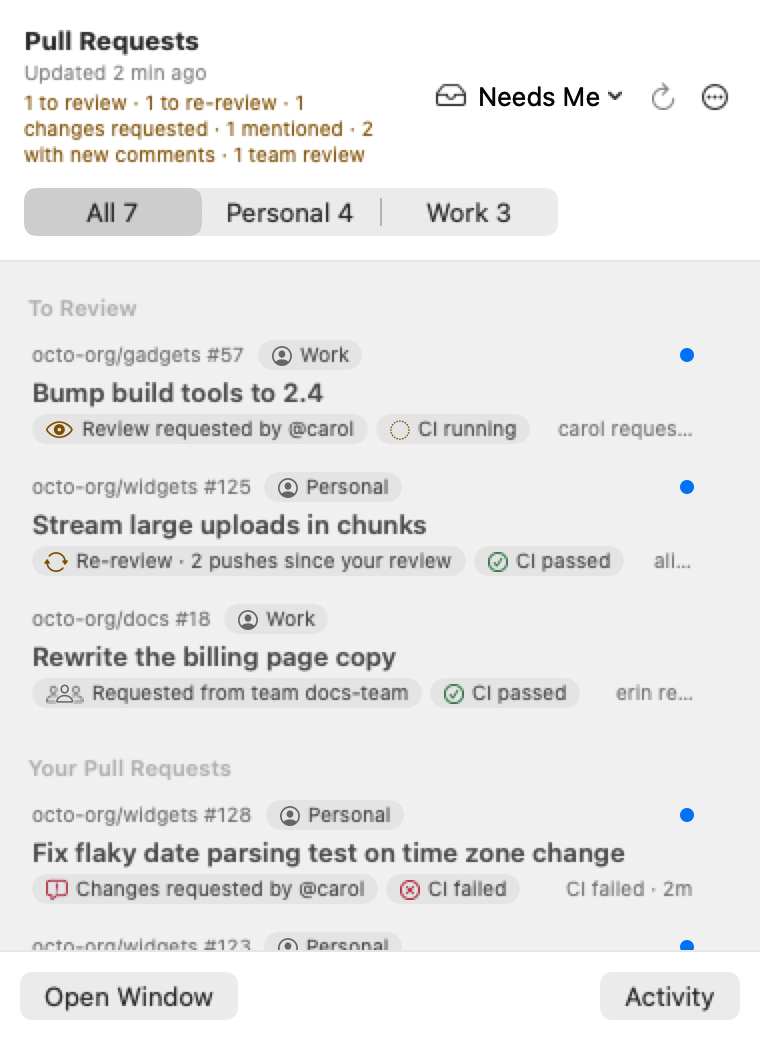
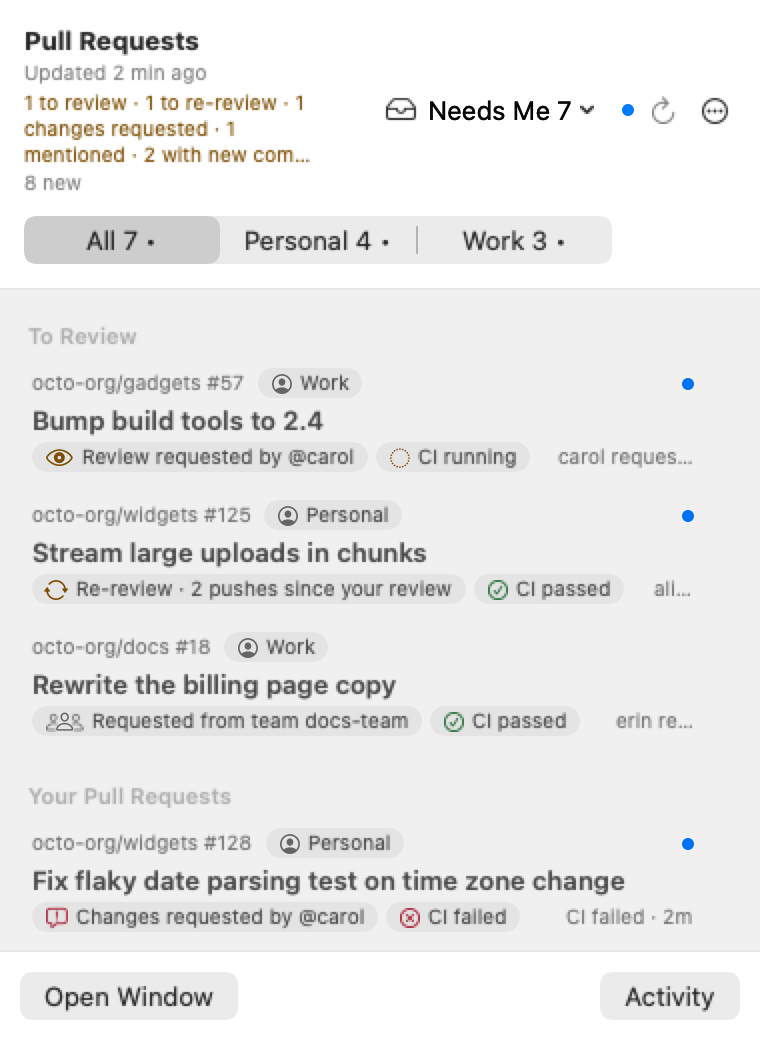
docs: numbers and dots in the changelog, README and screenshots

diff --git a/CHANGELOG.md b/CHANGELOG.md
@@ -24,6 +24,7 @@ Planned as 0.7.0.
 - Ghostex: a session PullPing starts there comes to the front. Resuming a session that is already open in Ghostex focuses it instead of starting a second copy, and types one line into its input (without pressing Return) that points at the prompt; `pullping session resume` does the same instead of refusing. An automatic run never types into an open session: it asks with a **Go to Session** button instead.
 
 ### Added
+- **Numbers and dots.** Every account segment, filter (also inside the panel's filter menu) and sidebar row shows how many items need you (the number) and a dot when something there happened that you have not opened yet: a comment, a review, CI, a merge or a new request, by someone else. The menu-bar icon's dot shows while anything is new (Settings → General → **Show a dot for new activity**, on by default); the panel header says how many ("2 new"); a collapsed account, Drafts, Waiting on Others or Reviewed shows a dot when it holds something new. A dot goes when you open the item, select it in the window or mark it read, not when you open the panel; muted, hidden and snoozed items light no group dot. Numbers inside the app now always count what needs you, also when the menu-bar count is All unread or Off.
 - **Background runs and drafts** (off by default: Settings → Automations → Background Runs, `pullping background on`). **Review in Background** and **Summarize** in each pull request's Handle with Agent menu, and rules with `--background review|summarize`, start Claude Code without a terminal (Codex: not yet, a run is refused; it still opens in a terminal). It only reads: PullPing fetches the diff and discussion first, and the agent gets read-only file tools (`--restricted --safe-mode --tools Read,Grep,Glob`, no MCP, no CLAUDE.md; needs Claude Code 2.1.248 or later). The run ends in a draft: **Review draft ready** with Review Draft…, Open Session and Discard. In the draft window you edit the review and choose Comment, Request changes or Approve (Comment is preselected when the diff was too large to send whole, and the window says how much the agent saw); **Post** sends that one review with the account's token, pinned to the reviewed commit. This is the first time PullPing writes to GitHub, and only on that click: approvals and change requests are never automatic, no setting or command posts, and the first post per account asks once. 2 runs at once, 20 a day, 10 minutes each. `pullping background run|list|cancel|status`, `pullping drafts list|show|discard`.
 - **Let your agent set it up.** Settings → Automations → **Copy Setup Prompt** (or `pullping setup prompt`): paste it into Claude Code or Codex and it walks you through every option, one question at a time, following the guide inside your copy of PullPing (`pullping setup guide`, also [docs/agent-setup.md](docs/agent-setup.md)). It never turns on automatic runs or the search through your agent history without your yes. `pullping setup status` shows what is set.
 - **Open With.** Settings → Automations → Open With (`pullping targets`): up to 5 places where agent sessions open (Terminal, iTerm2, Ghostty, Ghostex or your own command line); the first is the default. Notification buttons use it; a new chevron next to them, the pull request's **Handle with Agent ▸** menu, the detail toolbar and the **Pull Request** menu offer every place. In Ghostex, focusing a session that already runs there is a setting of the entry. Rules can pick one (`--target`).

diff --git a/README.md b/README.md
@@ -49,7 +49,8 @@ brew install --cask roypadina/tap/pullping
 - **Re-reviews you would miss.** A pull request you reviewed comes back to Needs Me when you are asked again, or when you requested changes and the author pushed since, even if they forgot to ask.
 - **Menu-bar panel.** Needs Me by default, with what waits on others and what you reviewed one click away; the filter picks any other row. Switch between All accounts and each account. Right-click the icon for Refresh, Mark All as Read, Pause Notifications, Settings and Quit.
 - **A count that means something.** By default the menu-bar number is the Needs Me list: review and re-review requests, unread assignments and mentions, your own pull requests with changes requested, failed CI, conflicts, new comments, or ready to merge, and new comments on issues you opened or are assigned to. The panel header spells it out ("2 to review · 1 ready to merge"). Settings → General → Count in the Menu Bar picks which of these count (team review requests have their own switch), or count everything unread, or show no number.
-- **Main window.** Mail-style sidebar: the same rows for All Accounts and for each account, with counts of what is your turn, search across every row, and a detail view with whose turn it is, reviewers (and the commit each reviewed), checks and the recent activity of the selected pull request. Prefer one inbox per account? Settings → General → Inbox → Per account.
+- **Numbers and dots.** Every account, filter and sidebar row shows how many items need you (a number) and whether something there happened that you haven't opened yet (a dot), and so does the menu-bar icon. Opening an item clears its dot; opening the panel doesn't.
+- **Main window.** Mail-style sidebar: the same rows for All Accounts and for each account, with counts of what is your turn and a dot for new activity, search across every row, and a detail view with whose turn it is, reviewers (and the commit each reviewed), checks and the recent activity of the selected pull request. Prefer one inbox per account? Settings → General → Inbox → Per account.
 - **Phone notifications** through [ntfy](https://ntfy.sh), chosen per kind of event, separately from the desktop panels.
 - **Agent automations.** Start Claude Code or Codex in a terminal when a pull request event arrives: rules you write in Settings, or hooks an agent attaches from the command line ("resume this session when the pull request is approved"). Asks first by default.
 - **Background reviews, posted only by you.** Optionally, your agent reviews or summarizes a pull request without a terminal, with read-only tools, and hands you a draft: you edit it and click Post (comment, request changes or approve). Nothing reaches GitHub without that click.
